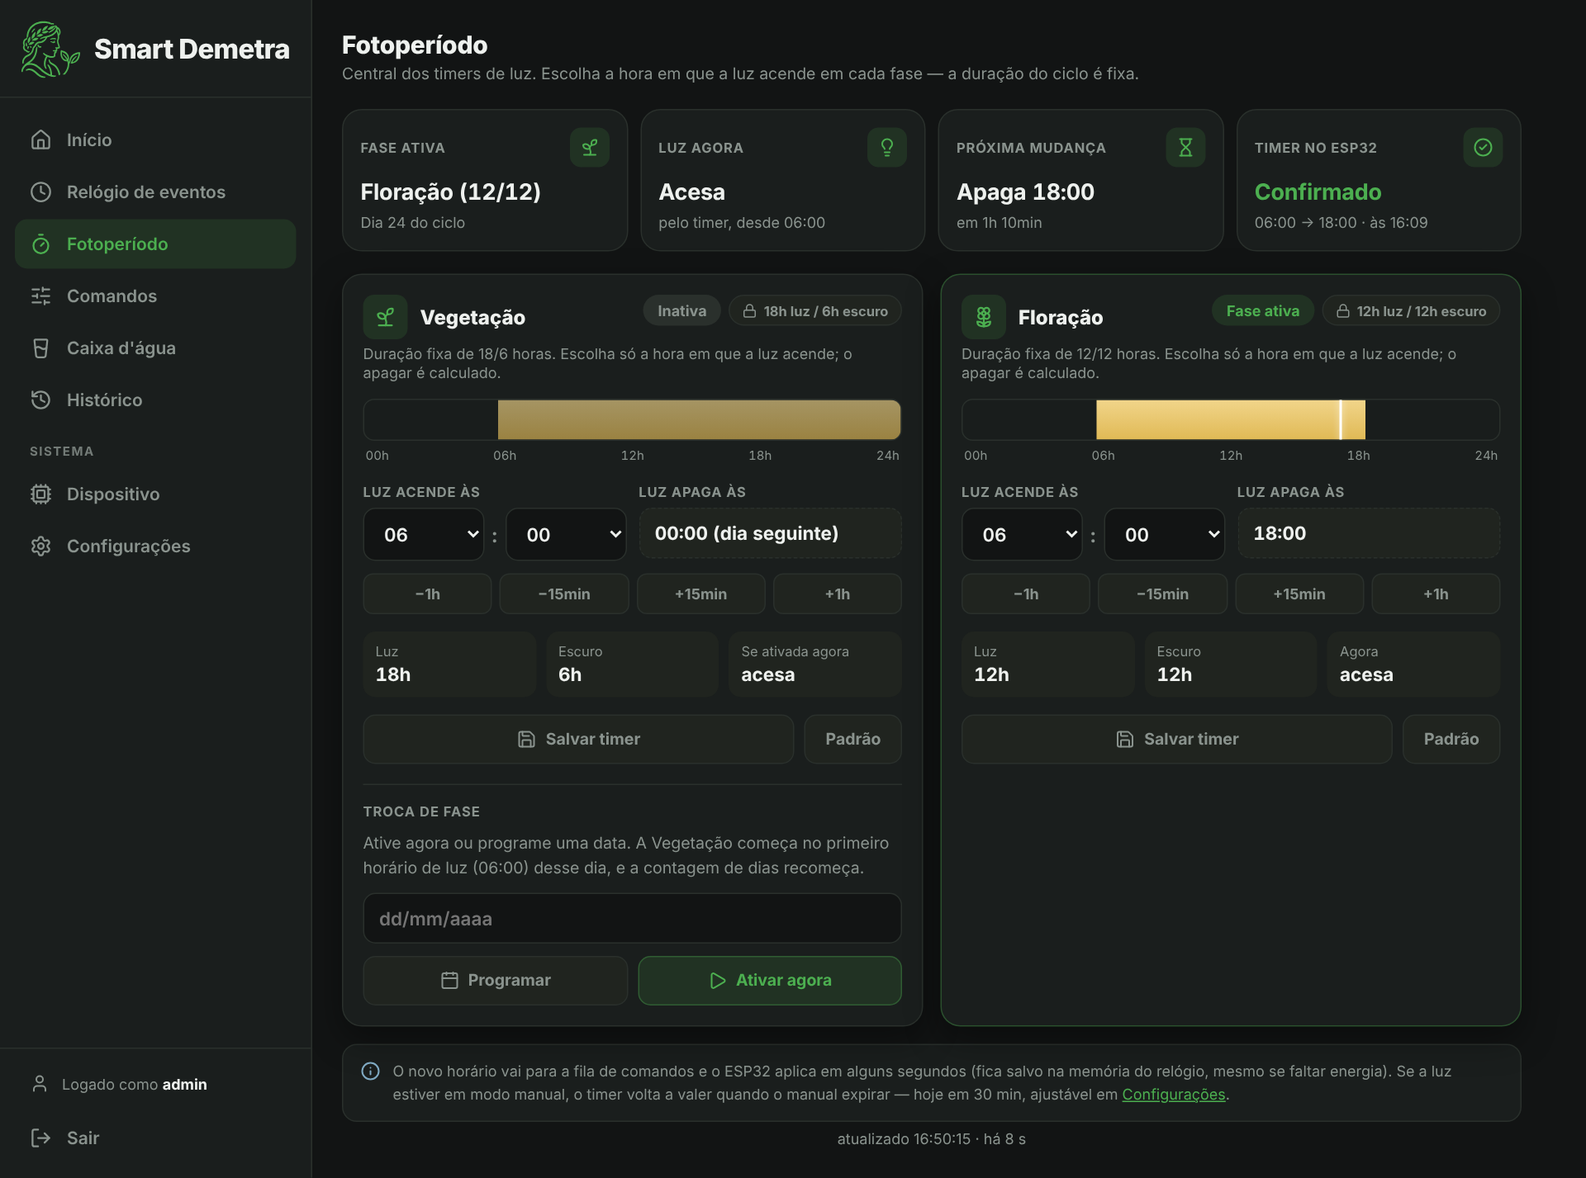
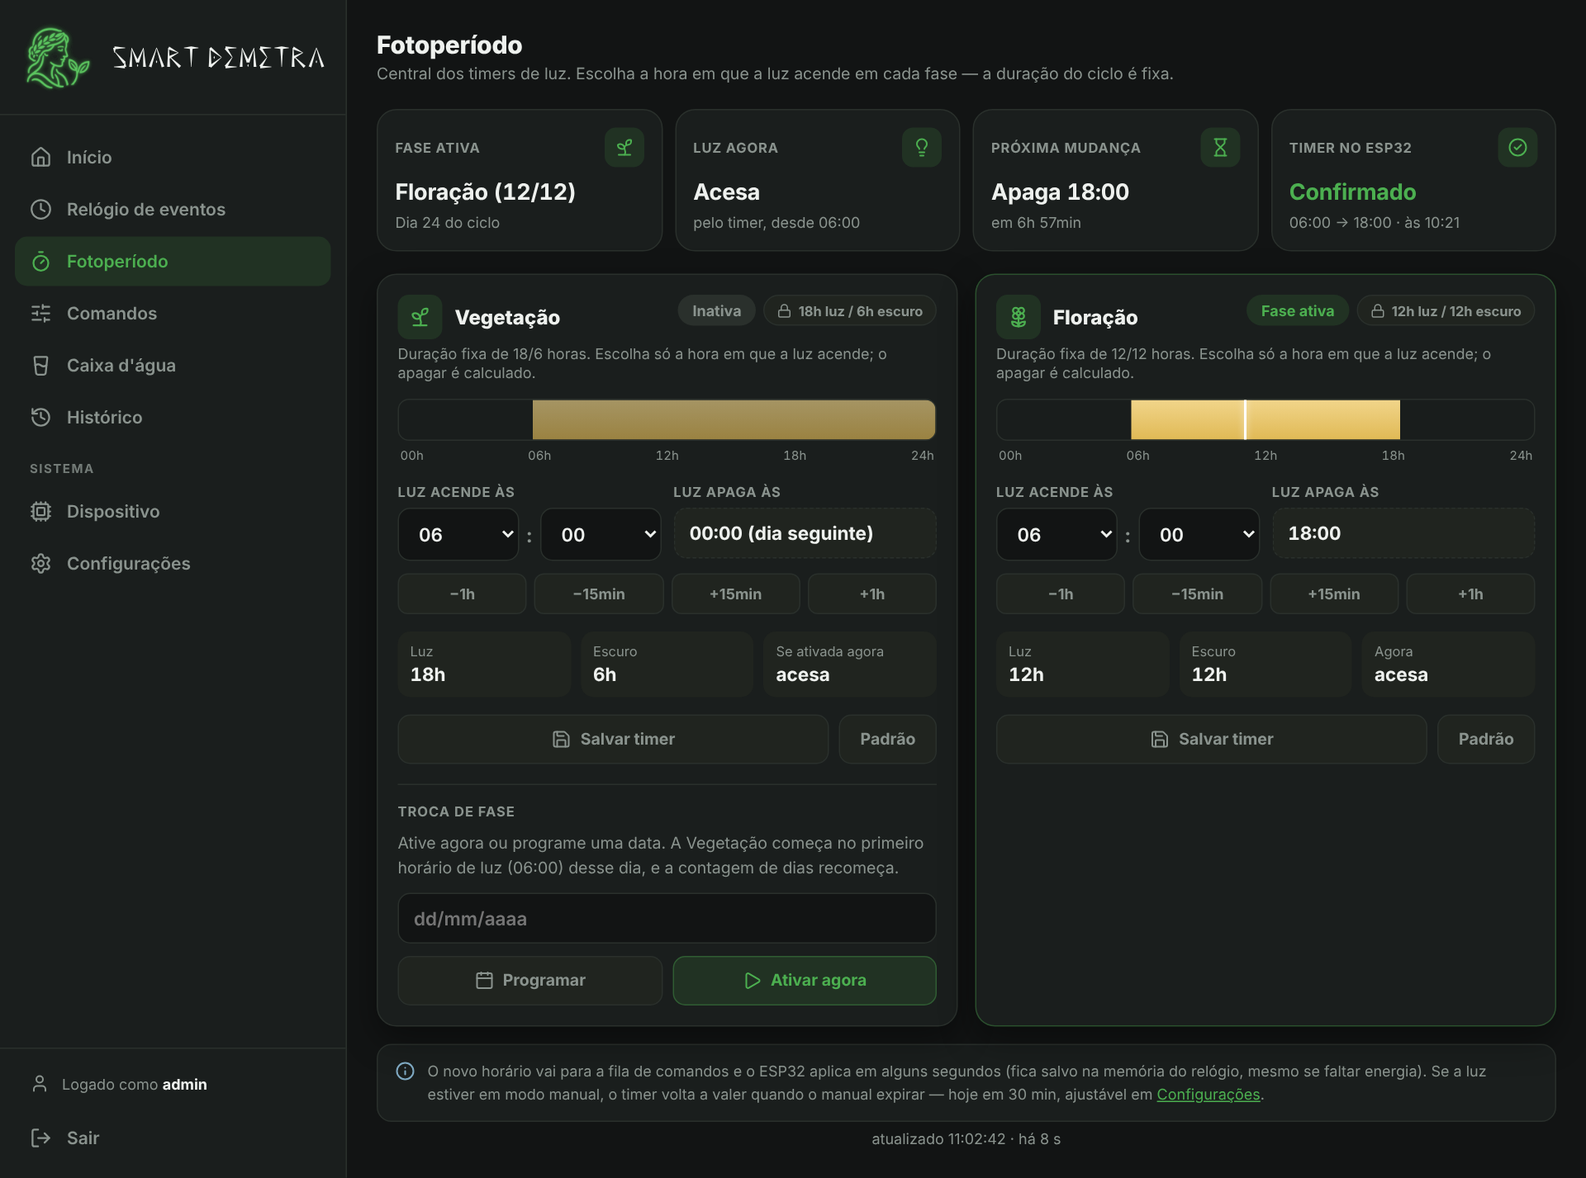
v5.1
Atualização da logomarca com novo conceito Smart Demetra

diff --git a/hostinger/login.php b/hostinger/login.php
@@ -96,10 +96,10 @@ function h(?string $v): string
     return htmlspecialchars((string) $v, ENT_QUOTES, 'UTF-8');
 }
 
-// Logo do Smart Demetra (img/logo.svg), no tamanho pedido.
+// Símbolo do Smart Demetra: arquivo mestre img/logo.png (1:1, brilho já incluso), no tamanho pedido.
 function logo(int $tam): string
 {
-    return '<img class="logo-marca" src="img/logo.svg" alt="" width="' . $tam . '" height="' . round($tam * 436 / 451) . '">';
+    return '<img class="logo-marca" src="img/logo.png" alt="" width="' . $tam . '" height="' . $tam . '">';
 }
 
 // Ícones (traços no estilo Lucide) com stroke = currentColor.
@@ -150,40 +150,40 @@ $titulos = [
 <meta name="viewport" content="width=device-width, initial-scale=1">
 <meta name="robots" content="noindex">
 <title>Smart Demetra — <?= h($titulos[$tela]) ?></title>
-<link rel="icon" type="image/svg+xml" href="img/smart-demetra-icone.svg">
 <link rel="icon" type="image/png" sizes="32x32" href="img/favicon-32.png">
 <link rel="icon" type="image/png" sizes="192x192" href="img/icone-192.png">
 <link rel="apple-touch-icon" href="img/apple-touch-icon.png">
-<meta name="theme-color" content="#111613">
+<meta name="theme-color" content="#121414">
+<link rel="preload" href="fonts/DemetraDisplay-Regular.otf" as="font" type="font/otf" crossorigin>
 <link rel="preconnect" href="https://fonts.googleapis.com">
 <link rel="preconnect" href="https://fonts.gstatic.com" crossorigin>
-<link href="https://fonts.googleapis.com/css2?family=Inter:wght@400;500;600;700&display=swap" rel="stylesheet">
+<link href="https://fonts.googleapis.com/css2?family=Plus+Jakarta+Sans:wght@400;500;600;700;800&display=swap" rel="stylesheet">
 <style>
   :root {
     color-scheme: dark;
-    --bg: #111613;
-    --card: #1B201E;
-    --borda: #272D29;
-    --campo: #101512;
-    --campo-borda: #2A302B;
-    --sec: #151A17;
-    --sec-borda: #2F3631;
-    --texto: #E8EAE8;
+    --bg: #121414;
+    --card: #1a1e1d;
+    --borda: #2a302c;
+    --campo: #121414;
+    --campo-borda: #2a302c;
+    --sec: #20241f;
+    --sec-borda: #2a302c;
+    --texto: #eef1ee;
     --texto-2: #C2C7C3;
-    --muted: #8A908B;
+    --muted: #8a938e;
     --placeholder: #7A817B;
-    --verde: #49AF50;
-    --verde-tinta: #0C120E;
-    --verde-glow: rgba(73, 175, 80, .18);
-    --vermelho: #E27064;
-    --amarelo: #DFC269;
-    --fonte: Inter, system-ui, -apple-system, "Segoe UI", Roboto, sans-serif;
+    --verde: #4CAF50;
+    --verde-tinta: #0d1c0e;
+    --verde-glow: rgba(76, 175, 80, .18);
+    --vermelho: #e08a85;
+    --amarelo: #e8c977;
+    --fonte: "Plus Jakarta Sans", -apple-system, BlinkMacSystemFont, "Segoe UI", Roboto, sans-serif;
   }
   * { box-sizing: border-box; }
   [hidden] { display: none !important; }
   html, body { min-height: 100%; }
   body {
-    margin: 0; min-height: 100vh; background: var(--bg); color: var(--texto); font-family: var(--fonte);
+    margin: 0; min-height: 100vh; background: radial-gradient(1000px 500px at 20% -10%, rgba(76, 175, 80, .08), transparent 60%), var(--bg); color: var(--texto); font-family: var(--fonte);
     display: flex; flex-direction: column; align-items: center; justify-content: center; gap: 20px;
     padding: 24px 16px; -webkit-font-smoothing: antialiased;
   }
@@ -191,21 +191,24 @@ $titulos = [
   input::placeholder { color: var(--placeholder); }
 
   .cartao {
-    width: 100%; max-width: 400px; background: var(--card); border: 1px solid var(--borda); border-radius: 20px;
+    width: 100%; max-width: 400px; background: var(--card); border: 1px solid var(--borda); border-radius: 16px; box-shadow: 0 12px 32px rgba(0, 0, 0, .4);
     padding: 28px 24px; display: flex; flex-direction: column; gap: 22px;
   }
-  .cartao.erro { border-color: rgba(226, 112, 100, .35); }
-  .cartao.sucesso { border-color: rgba(73, 175, 80, .45); }
+  .cartao.erro { border-color: rgba(224, 138, 133, .35); }
+  .cartao.sucesso { border-color: rgba(76, 175, 80, .45); }
 
   .marca { display: flex; flex-direction: column; gap: 10px; }
   .sobrelinha { font-size: 11px; font-weight: 600; letter-spacing: .08em; color: var(--verde); text-transform: uppercase; }
-  .logo { display: flex; align-items: center; gap: 12px; color: var(--verde); }
-  .logo h1 { margin: 0; font-size: 30px; font-weight: 700; letter-spacing: -.02em; color: var(--texto); }
+  /* Wordmark: Demetra Display Regular, exclusiva do nome Smart Demetra (manual de identidade). */
+  @font-face { font-family: 'Demetra Display'; src: url('fonts/DemetraDisplay-Regular.otf') format('opentype'); font-weight: 400; font-style: normal; font-display: swap; }
+  .marca-nome { font-family: 'Demetra Display', 'Plus Jakarta Sans', sans-serif; font-weight: 400; letter-spacing: -.01em; }
+  .logo { display: flex; align-items: center; gap: 10px; color: var(--verde); }
+  .logo h1 { margin: 0; font-size: 30px; color: var(--texto); }
   .marca p { margin: 0; font-size: 14px; line-height: 20px; color: var(--muted); }
 
-  .logo-marca { display: block; flex: none; }
-  .cabecalho-mini { display: flex; align-items: center; gap: 10px; color: var(--verde); }
-  .cabecalho-mini strong { font-size: 21px; font-weight: 700; letter-spacing: -.01em; color: var(--texto); }
+  .logo-marca { display: block; flex: none; object-fit: contain; }
+  .cabecalho-mini { display: flex; align-items: center; gap: 8px; color: var(--verde); }
+  .cabecalho-mini strong { font-size: 22px; color: var(--texto); }
   .cabecalho-mini span { margin-left: auto; font-size: 11px; font-weight: 600; letter-spacing: .08em; color: var(--muted); }
 
   form { display: flex; flex-direction: column; gap: 14px; margin: 0; }
@@ -213,12 +216,12 @@ $titulos = [
   .campo label { font-size: 12px; font-weight: 500; color: var(--muted); }
   .entrada {
     display: flex; align-items: center; gap: 10px; height: 48px; padding: 0 14px;
-    background: var(--campo); border: 1px solid var(--campo-borda); border-radius: 12px; color: var(--muted);
+    background: var(--campo); border: 1px solid var(--campo-borda); border-radius: 10px; color: var(--muted);
     transition: border-color .15s ease, box-shadow .15s ease, color .15s ease;
   }
   .entrada.com-botao { padding-right: 4px; }
   .entrada:focus-within { border-color: var(--verde); box-shadow: 0 0 0 3px var(--verde-glow); color: var(--verde); }
-  .entrada.invalida { border-color: rgba(226, 112, 100, .6); }
+  .entrada.invalida { border-color: rgba(224, 138, 133, .6); }
   .entrada svg { flex: none; }
   .entrada input {
     flex: 1; min-width: 0; height: 100%; background: transparent; border: 0; outline: none;
@@ -238,13 +241,13 @@ $titulos = [
 
   .btn {
     height: 48px; display: flex; align-items: center; justify-content: center; gap: 8px; width: 100%;
-    border-radius: 12px; font: 600 15px var(--fonte); text-decoration: none; cursor: pointer; border: 0;
+    border-radius: 10px; font: 700 15px var(--fonte); text-decoration: none; cursor: pointer; border: 0;
     transition: filter .15s ease, transform .1s ease;
   }
   .btn:active { transform: scale(.985); }
   .btn-primario { background: var(--verde); color: var(--verde-tinta); }
   .btn-primario:hover { filter: brightness(1.07); }
-  .btn-primario:disabled { background: #2A302B; color: var(--muted); cursor: not-allowed; transform: none; filter: none; }
+  .btn-primario:disabled { background: #2a302c; color: var(--muted); cursor: not-allowed; transform: none; filter: none; }
   .btn-secundario { background: var(--sec); border: 1px solid var(--sec-borda); color: var(--texto); }
   .btn-secundario:hover { border-color: #3b443d; }
   .btn:focus-visible, .link-pequeno:focus-visible, .voltar:focus-visible { outline: 2px solid var(--verde); outline-offset: 2px; }
@@ -262,7 +265,7 @@ $titulos = [
 
   .aviso {
     display: flex; align-items: flex-start; gap: 10px; padding: 12px 14px; border-radius: 12px; font-size: 13px; line-height: 19px;
-    background: rgba(226, 112, 100, .08); border: 1px solid rgba(226, 112, 100, .28); color: var(--texto);
+    background: rgba(224, 138, 133, .08); border: 1px solid rgba(224, 138, 133, .28); color: var(--texto);
   }
   .aviso svg { flex: none; margin-top: 1px; color: var(--vermelho); }
   .aviso.neutro { background: rgba(223, 194, 105, .08); border-color: rgba(223, 194, 105, .3); }
@@ -278,22 +281,22 @@ $titulos = [
 
   .resultado { display: flex; flex-direction: column; align-items: center; gap: 14px; text-align: center; }
   .resultado-icone { width: 64px; height: 64px; border-radius: 20px; display: flex; align-items: center; justify-content: center; }
-  .resultado-icone.erro { background: rgba(226, 112, 100, .14); color: var(--vermelho); }
-  .resultado-icone.sucesso { background: rgba(73, 175, 80, .16); color: var(--verde); }
+  .resultado-icone.erro { background: rgba(224, 138, 133, .14); color: var(--vermelho); }
+  .resultado-icone.sucesso { background: rgba(76, 175, 80, .16); color: var(--verde); }
   .resultado-icone.info { background: rgba(223, 194, 105, .14); color: var(--amarelo); }
   .resultado h1 { margin: 0; font-size: 22px; line-height: 28px; font-weight: 700; letter-spacing: -.02em; }
   .resultado p { margin: 0; font-size: 14px; line-height: 20px; color: var(--muted); }
 
   .lista-erros {
     margin: 0; padding: 14px 16px; list-style: none; display: flex; flex-direction: column; gap: 10px;
-    background: rgba(226, 112, 100, .08); border: 1px solid rgba(226, 112, 100, .28); border-radius: 12px;
+    background: rgba(224, 138, 133, .08); border: 1px solid rgba(224, 138, 133, .28); border-radius: 12px;
   }
   .lista-erros li { display: flex; align-items: flex-start; gap: 10px; font-size: 14px; line-height: 20px; }
   .lista-erros svg { flex: none; margin-top: 3px; color: var(--vermelho); }
 
   .dados { margin: 0; padding: 4px 16px; display: flex; flex-direction: column; background: var(--sec); border: 1px solid var(--borda); border-radius: 12px; }
   .dados div { display: flex; justify-content: space-between; align-items: center; gap: 12px; padding: 12px 0; }
-  .dados div + div { border-top: 1px solid #252B27; }
+  .dados div + div { border-top: 1px solid var(--borda); }
   .dados dt { font-size: 13px; color: var(--muted); }
   .dados dd { margin: 0; font-size: 14px; font-weight: 600; overflow-wrap: anywhere; text-align: right; }
 
@@ -302,20 +305,34 @@ $titulos = [
 
   .carregando { display: flex; flex-direction: column; align-items: center; gap: 28px; }
   .carregando-marca { display: flex; flex-direction: column; align-items: center; gap: 16px; }
-  .carregando-icone { width: 76px; height: 76px; border-radius: 22px; overflow: hidden; border: 1px solid rgba(73, 175, 80, .3); box-shadow: 0 0 28px rgba(76, 175, 80, .18); }
-  .carregando-icone img { display: block; width: 100%; height: 100%; }
-  .carregando h1 { margin: 0; font-size: 26px; font-weight: 700; letter-spacing: -.02em; }
+  .carregando-logo { display: flex; align-items: center; gap: 11px; }
+  .carregando h1 { margin: 0; font-size: 36px; color: var(--texto); }
+  /* Celulares estreitos: o nome encolhe um pouco para caber inteiro ao lado do símbolo. */
+  @media (max-width: 400px) {
+    .logo h1 { font-size: 25px; }
+    .cabecalho-mini strong { font-size: 18px; }
+    .carregando h1 { font-size: 28px; }
+  }
   .carregando p { margin: 0; font-size: 14px; color: var(--muted); }
   .progresso-area { width: 220px; display: flex; flex-direction: column; align-items: center; gap: 12px; }
-  .progresso { width: 100%; height: 6px; border-radius: 3px; background: #232A24; overflow: hidden; }
+  .progresso { width: 100%; height: 6px; border-radius: 3px; background: var(--sec); overflow: hidden; }
   .progresso div { width: 0; height: 100%; border-radius: 3px; background: var(--verde); animation: encher 1.3s cubic-bezier(.3, .7, .4, 1) forwards; }
   .progresso-status { display: flex; align-items: center; gap: 8px; font-size: 12px; color: var(--muted); }
   .ponto { width: 6px; height: 6px; border-radius: 3px; background: var(--verde); animation: pulsar 1s ease-in-out infinite; }
   @keyframes encher { to { width: 100%; } }
+  .marca-entrada .logo-marca { animation: marcaEntrar 700ms cubic-bezier(.22, 1, .36, 1) both; }
+  .marca-entrada .marca-nome { animation: marcaEntrar 700ms cubic-bezier(.22, 1, .36, 1) 180ms both; }
+  @keyframes marcaEntrar {
+    0% { opacity: 0; transform: translateY(8px) scale(.96); }
+    60% { opacity: .75; transform: scale(1.01); }
+    100% { opacity: 1; transform: none; }
+  }
+  @keyframes marcaFade { from { opacity: 0; } to { opacity: 1; } }
   @keyframes pulsar { 50% { opacity: .3; } }
   @media (prefers-reduced-motion: reduce) {
     .progresso div { animation: none; width: 100%; }
     .ponto { animation: none; }
+    .marca-entrada .logo-marca, .marca-entrada .marca-nome { animation: marcaFade 150ms ease both; }
   }
 </style>
 </head>
@@ -324,8 +341,7 @@ $titulos = [
 <?php if ($tela === 'carregando'): ?>
   <main class="carregando" role="status" aria-live="polite">
     <div class="carregando-marca">
-      <div class="carregando-icone"><img src="img/smart-demetra-icone.svg" alt="" width="76" height="76"></div>
-      <h1>Smart Demetra</h1>
+      <div class="carregando-logo marca-entrada"><?= logo(80) ?><h1 class="marca-nome">Smart Demetra</h1></div>
       <p>Carregando o painel…</p>
     </div>
     <div class="progresso-area">
@@ -341,7 +357,7 @@ $titulos = [
     <a class="voltar" href="login.php"><?= ic('voltar') ?>Voltar para o login</a>
     <div class="marca">
       <span class="sobrelinha">Novo cadastro</span>
-      <div class="logo"><?= logo(52) ?><h1>Smart Demetra</h1></div>
+      <div class="logo"><?= logo(72) ?><h1 class="marca-nome">Smart Demetra</h1></div>
       <p>Preencha os dados abaixo para criar seu acesso ao painel.</p>
     </div>
     <?php if (!$conviteAtivo): ?>
@@ -383,7 +399,7 @@ $titulos = [
 
 <?php elseif ($tela === 'erro_cadastro'): ?>
   <section class="cartao erro" role="alert">
-    <div class="cabecalho-mini"><?= logo(42) ?><strong>Smart Demetra</strong><span>CADASTRO</span></div>
+    <div class="cabecalho-mini"><?= logo(62) ?><strong class="marca-nome">Smart Demetra</strong><span>CADASTRO</span></div>
     <div class="resultado">
       <div class="resultado-icone erro"><?= ic('alerta', 30) ?></div>
       <h1>Não foi possível concluir o cadastro</h1>
@@ -402,7 +418,7 @@ $titulos = [
 
 <?php elseif ($tela === 'cadastro_ok'): ?>
   <section class="cartao sucesso" role="status">
-    <div class="cabecalho-mini"><?= logo(42) ?><strong>Smart Demetra</strong><span>CADASTRO</span></div>
+    <div class="cabecalho-mini"><?= logo(62) ?><strong class="marca-nome">Smart Demetra</strong><span>CADASTRO</span></div>
     <div class="resultado">
       <div class="resultado-icone sucesso"><?= ic('check', 30) ?></div>
       <h1>Cadastro concluído!</h1>
@@ -417,7 +433,7 @@ $titulos = [
 
 <?php elseif ($tela === 'esqueci'): ?>
   <section class="cartao">
-    <div class="cabecalho-mini"><?= logo(42) ?><strong>Smart Demetra</strong><span>ACESSO</span></div>
+    <div class="cabecalho-mini"><?= logo(62) ?><strong class="marca-nome">Smart Demetra</strong><span>ACESSO</span></div>
     <div class="resultado">
       <div class="resultado-icone info"><?= ic('chave', 30) ?></div>
       <h1>Esqueceu a senha?</h1>
@@ -435,7 +451,7 @@ $titulos = [
   <section class="cartao">
     <div class="marca">
       <span class="sobrelinha">Painel de cultivo</span>
-      <div class="logo"><?= logo(52) ?><h1>Smart Demetra</h1></div>
+      <div class="logo marca-entrada"><?= logo(72) ?><h1 class="marca-nome">Smart Demetra</h1></div>
       <p>Entre com suas credenciais para acessar o painel.</p>
     </div>
     <form method="post" action="login.php">
@@ -484,10 +500,10 @@ $titulos = [
     const rotulo = document.getElementById('forcaRotulo');
     const NIVEIS = [
       { texto: '', cor: '' },
-      { texto: 'Fraca', cor: '#E27064' },
-      { texto: 'Média', cor: '#DFC269' },
+      { texto: 'Fraca', cor: '#e08a85' },
+      { texto: 'Média', cor: '#e8c977' },
       { texto: 'Boa', cor: '#9CC65A' },
-      { texto: 'Forte', cor: '#49AF50' },
+      { texto: 'Forte', cor: '#4CAF50' },
     ];
     function forcaSenha(s) {
       if (!s) return 0;

diff --git a/hostinger/index.php b/hostinger/index.php
@@ -16,7 +16,7 @@ $ehAdmin = auth_eh_admin();
 <meta charset="UTF-8">
 <meta name="viewport" content="width=device-width, initial-scale=1">
 <title>Smart Demetra — Painel</title>
-<link rel="icon" type="image/svg+xml" href="img/smart-demetra-icone.svg">
+<link rel="preload" href="fonts/DemetraDisplay-Regular.otf" as="font" type="font/otf" crossorigin>
 <link rel="icon" type="image/png" sizes="32x32" href="img/favicon-32.png">
 <link rel="icon" type="image/png" sizes="192x192" href="img/icone-192.png">
 <link rel="apple-touch-icon" href="img/apple-touch-icon.png">
@@ -48,7 +48,7 @@ $ehAdmin = auth_eh_admin();
     --raio-sm: 10px;
     --sombra: 0 10px 28px rgba(0, 0, 0, .38);
     --fonte: "Plus Jakarta Sans", -apple-system, BlinkMacSystemFont, "Segoe UI", Roboto, sans-serif;
-    --sidebar-w: 252px;
+    --sidebar-w: 280px;
   }
   * { box-sizing: border-box; }
   [hidden] { display: none !important; }
@@ -79,14 +79,17 @@ $ehAdmin = auth_eh_admin();
     transition: transform .2s ease;
   }
   .sidebar-logo {
-    display: flex; align-items: center; gap: 10px;
-    padding: 16px 14px 14px 16px;
+    display: flex; align-items: center; gap: 8px;
+    padding: 12px 14px 10px 12px;
     border-bottom: 1px solid var(--borda);
   }
-  /* Logo da marca (img/logo.svg). */
-  .logo-marca { width: 50px; height: 48px; flex: none; display: block; }
+  /* Wordmark: Demetra Display Regular, exclusiva do nome Smart Demetra (manual de identidade). */
+  @font-face { font-family: 'Demetra Display'; src: url('fonts/DemetraDisplay-Regular.otf') format('opentype'); font-weight: 400; font-style: normal; font-display: swap; }
+  .marca-nome { font-family: 'Demetra Display', 'Plus Jakarta Sans', sans-serif; font-weight: 400; letter-spacing: -.01em; }
+  /* Símbolo: arquivo mestre img/logo.png (256 × 256, 1:1, brilho já incluso). */
+  .logo-marca { width: 70px; height: 70px; flex: none; display: block; object-fit: contain; }
   .sidebar-logo span {
-    font-weight: 800; font-size: 22px; letter-spacing: -.02em; color: var(--texto);
+    font-size: 22px; color: var(--texto);
     white-space: nowrap; overflow: hidden; text-overflow: ellipsis; min-width: 0;
   }
   .sidebar-nav { display: flex; flex-direction: column; gap: 2px; padding: 14px 12px; flex: 1; }
@@ -129,7 +132,7 @@ $ehAdmin = auth_eh_admin();
     display: none;
     position: sticky; top: 0; z-index: 120;
     align-items: center; justify-content: space-between; gap: 12px;
-    padding: 14px 16px;
+    padding: 6px 16px 6px 8px;
     background: rgba(18, 20, 20, .92);
     backdrop-filter: blur(6px);
     border-bottom: 1px solid var(--borda);
@@ -139,8 +142,8 @@ $ehAdmin = auth_eh_admin();
     width: 38px; height: 38px; display: flex; align-items: center; justify-content: center;
     color: var(--texto); cursor: pointer; flex: none;
   }
-  .topo-mobile .topo-logo { display: flex; align-items: center; gap: 10px; font-weight: 800; font-size: 21px; letter-spacing: -.02em; min-width: 0; }
-  .topo-mobile .topo-logo .logo-marca { width: 46px; height: 45px; }
+  .topo-mobile .topo-logo { display: flex; align-items: center; gap: 8px; font-size: 22px; min-width: 0; }
+  .topo-mobile .topo-logo .logo-marca { width: 66px; height: 66px; }
   .topo-mobile .topo-logo span { white-space: nowrap; overflow: hidden; text-overflow: ellipsis; }
 
   /* ---------------- Conteúdo ---------------- */

diff --git a/hostinger/partials/cabecalho.php b/hostinger/partials/cabecalho.php
@@ -3,8 +3,8 @@
 
   <aside class="sidebar" id="sidebar">
     <div class="sidebar-logo">
-      <img class="logo-marca" src="img/logo.svg" alt="" width="50" height="48">
-      <span id="nomeCultivoSidebar">Smart Demetra</span>
+      <img class="logo-marca" src="img/logo.png" alt="" width="70" height="70">
+      <span class="marca-nome" id="nomeCultivoSidebar">Smart Demetra</span>
     </div>
     <nav class="sidebar-nav">
       <button type="button" class="nav-item ativo" data-aba="inicio"><svg data-lucide="home"></svg>In&iacute;cio</button>
@@ -27,8 +27,8 @@
 
     <header class="topo-mobile">
       <div class="topo-logo">
-        <img class="logo-marca" src="img/logo.svg" alt="" width="46" height="45">
-        <span id="nomeCultivoTopo">Smart Demetra</span>
+        <img class="logo-marca" src="img/logo.png" alt="" width="66" height="66">
+        <span class="marca-nome" id="nomeCultivoTopo">Smart Demetra</span>
       </div>
       <button type="button" class="btn-hamburger" id="btnHamburger" aria-label="Abrir menu"><svg data-lucide="menu"></svg></button>
     </header>

diff --git a/hostinger/README.md b/hostinger/README.md
@@ -28,7 +28,8 @@ do projeto está no `README.md` da raiz.
 | `fotoperiodo.php` | Sessão | Troca de fase: ativar agora, programar para uma data, cancelar |
 | `cron.php` | Só linha de comando | Trocas de fase programadas e avisos do Telegram (cron a cada minuto) |
 | `notificacoes.php` | Sessão | Vínculo do Telegram, mensagem de teste e interruptores dos avisos |
-| `img/` | Pública | Logo (`logo.svg`), ícone do app (`smart-demetra-icone.svg`) e favicons (PNG 32, 180, 192 e 512) |
+| `img/` | Pública | Símbolo da marca (`logo.png`, arquivo mestre 256 × 256 do manual de identidade), favicon e ícones do app (PNG 32, 180, 192 e 512) |
+| `fonts/` | Pública | `DemetraDisplay-Regular.otf`, fonte exclusiva do nome Smart Demetra (o resto da interface usa Plus Jakarta Sans) |
 | `telegram.php` | — | Envio pelo bot, limite de 1 aviso a cada 30 min e "normalizado" |
 | `sql/schema.sql` | — | Estrutura do banco (instalação nova) |
 | `sql/migracoes/` | — | Mudanças de banco numeradas: `.up.sql` aplica sozinho, `.down.sql` desfaz (rodar no phpMyAdmin) |

diff --git a/README.md b/README.md
@@ -227,7 +227,8 @@ O roteiro em [`docs/verificacao-manual.md`](docs/verificacao-manual.md) diz, pá
 ├── hostinger/                   # painel + API (vai para o public_html)
 │   ├── index.php                # painel (todas as páginas)
 │   ├── partials/                # cabeçalho e rodapé comuns
-│   ├── img/                     # logo, ícone do app e favicons
+│   ├── img/                     # símbolo da marca (logo.png), ícones do app e favicons
+│   ├── fonts/                   # Demetra Display (só o nome Smart Demetra)
 │   ├── login.php / logout.php   # acesso e cadastro
 │   ├── auth.php                 # contas, "lembrar de mim", convite, CSRF, limite de tentativas
 │   ├── usuarios.php             # senha e gestão de contas
